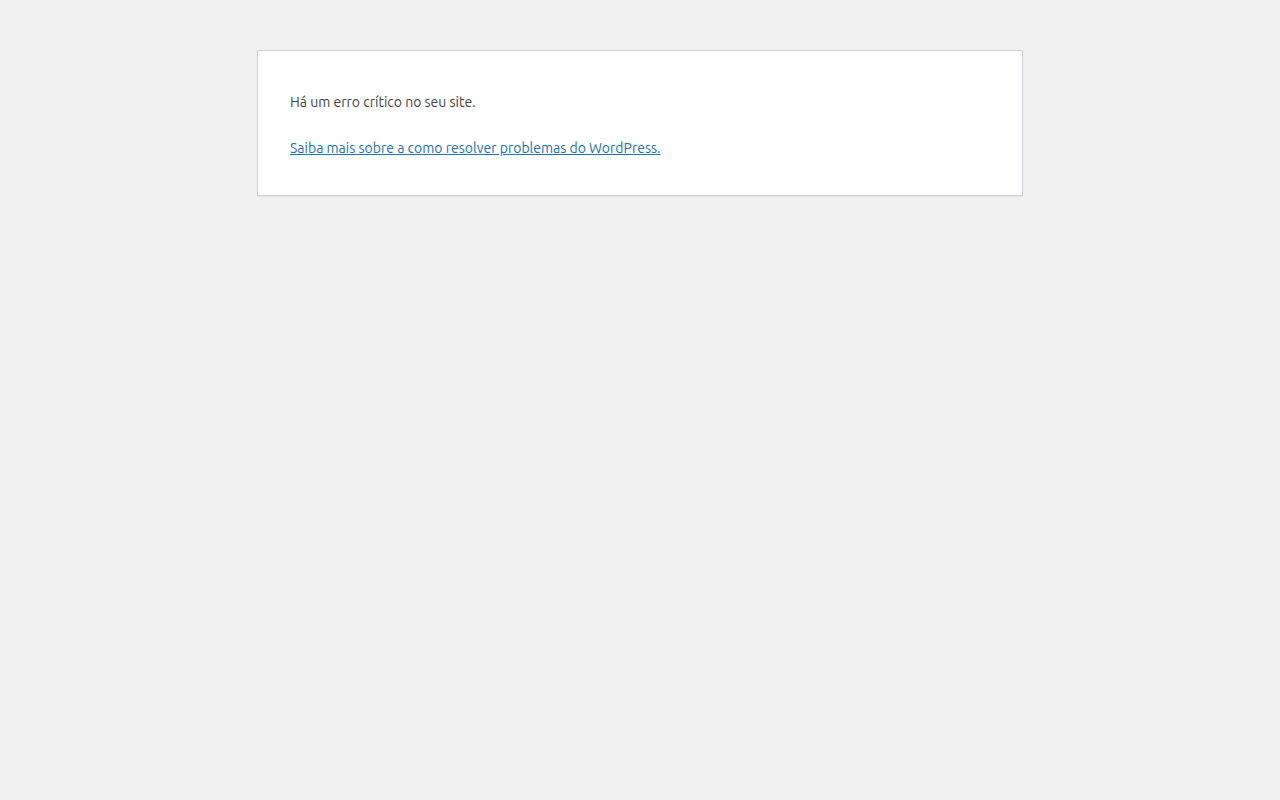
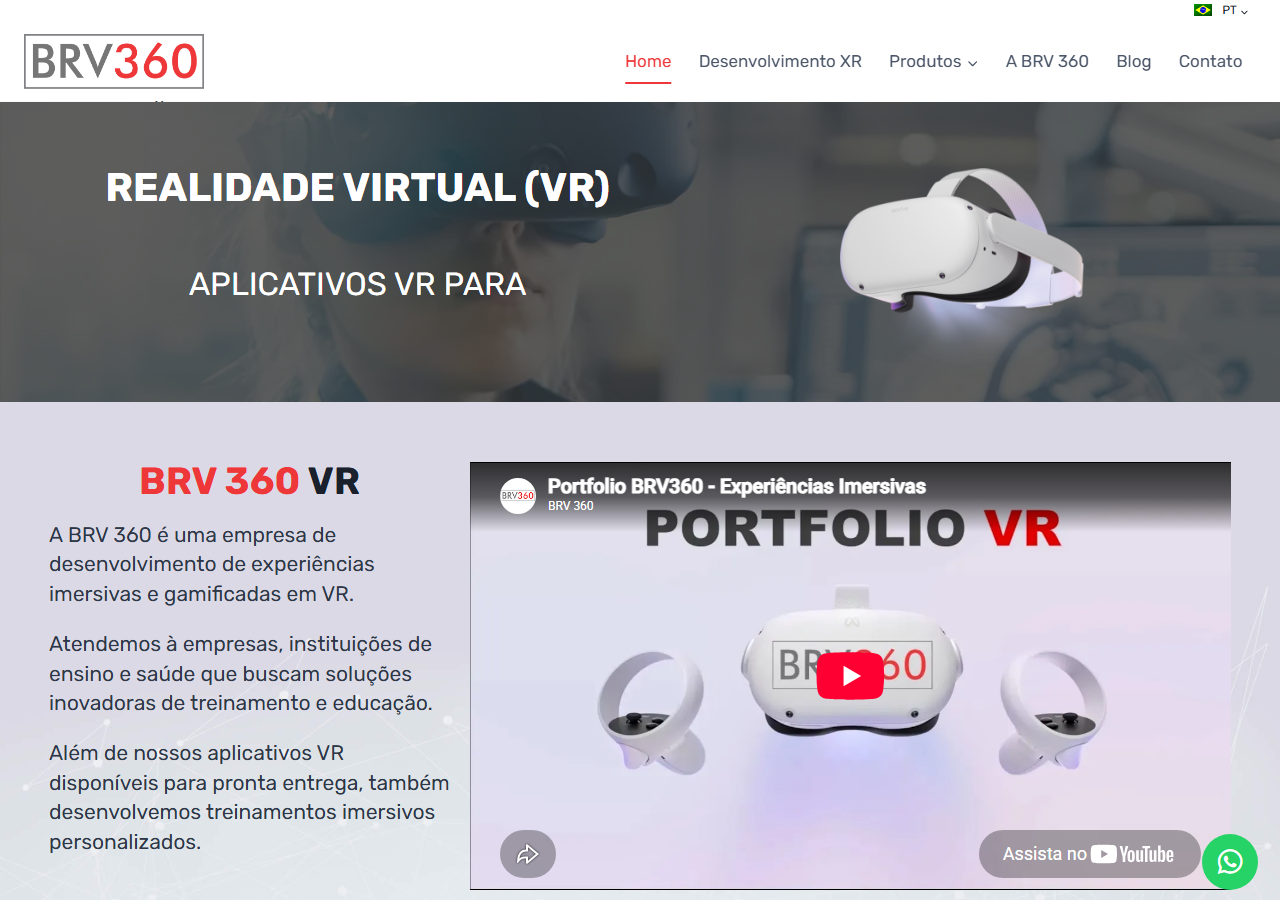
BRV360 adicionado (bilíngue PT/EN) + Black Bridge com 5 idiomas
- BRV360: site de Realidade Virtual, destaque para versão bilíngue português/inglês
- Black Bridge Business: descrição atualizada com os 5 idiomas
  (português, inglês, espanhol, alemão, holandês) e seletor de idiomas

diff --git a/README.md b/README.md
@@ -136,7 +136,8 @@ Clique na imagem para visitar o site:
 | Screenshot | Site | O que foi realizado |
 |:---:|:---|:---|
 | [<img src="screenshots/arq-urb.png" width="220" alt="Arquitetos Urbanistas">](https://www.arq-urb.com/) | [**Arquitetos Urbanistas**](https://www.arq-urb.com/) | Site institucional de escritório de arquitetura e urbanismo com atuação nacional: portfólio de projetos urbanísticos em carrossel, apresentação da equipe e contato, com identidade visual corporativa. |
-| [<img src="screenshots/blackbridgebusiness.png" width="220" alt="Black Bridge Business">](https://blackbridgebusiness.com) | [**Black Bridge Business**](https://blackbridgebusiness.com) | Site institucional de consultoria em exportação e importação de commodities: apresentação de serviços de viabilidade financeira e logística, com apelo visual corporativo e foco em geração de leads. |
+| [<img src="screenshots/blackbridgebusiness.png" width="220" alt="Black Bridge Business">](https://blackbridgebusiness.com) | [**Black Bridge Business**](https://blackbridgebusiness.com) | Site institucional de consultoria em exportação e importação de commodities, **desenvolvido em 5 idiomas (português, inglês, espanhol, alemão e holandês)** com seletor de idiomas: apresentação de serviços de viabilidade financeira e logística, com apelo visual corporativo e foco em geração de leads. |
+| [<img src="screenshots/brv360.png" width="220" alt="BRV360">](https://www.brv360.com) | [**BRV360**](https://www.brv360.com) | Site institucional **bilíngue (português/inglês)** da BRV360, empresa de desenvolvimento de experiências imersivas em Realidade Virtual (VR/XR): apresentação de soluções, portfólio de aplicativos VR, vídeo institucional e contato via WhatsApp. |
 | [<img src="screenshots/caetanobilhar.png" width="220" alt="Caetano Bilhar">](https://www.caetanobilhar.com.br/) | [**Caetano Bilhar**](https://www.caetanobilhar.com.br/) | Site institucional com vitrine de mesas de bilhar novas e usadas, locação, reforma e acessórios, otimizado para busca local em Assis e região. |
 | [<img src="screenshots/digitalcopy.png" width="220" alt="Digital Copy Soluções">](http://www.digitalcopysolucoes.com/) | [**Digital Copy Soluções**](http://www.digitalcopysolucoes.com/) | Site de locação de impressoras em Maringá: planos e benefícios de redução de custos, suporte especializado e formulário de orçamento. |
 | [<img src="screenshots/gobbilanziotti.png" width="220" alt="Gobbi & Lanziotti">](https://www.gobbilanziotti.com.br/) | [**Gobbi & Lanziotti**](https://www.gobbilanziotti.com.br/) | Site institucional de empresa de cobranças: soluções (departamento jurídico, cobrança extrajudicial e judicial), diferenciais, carteira de clientes e atendimento via WhatsApp. |
